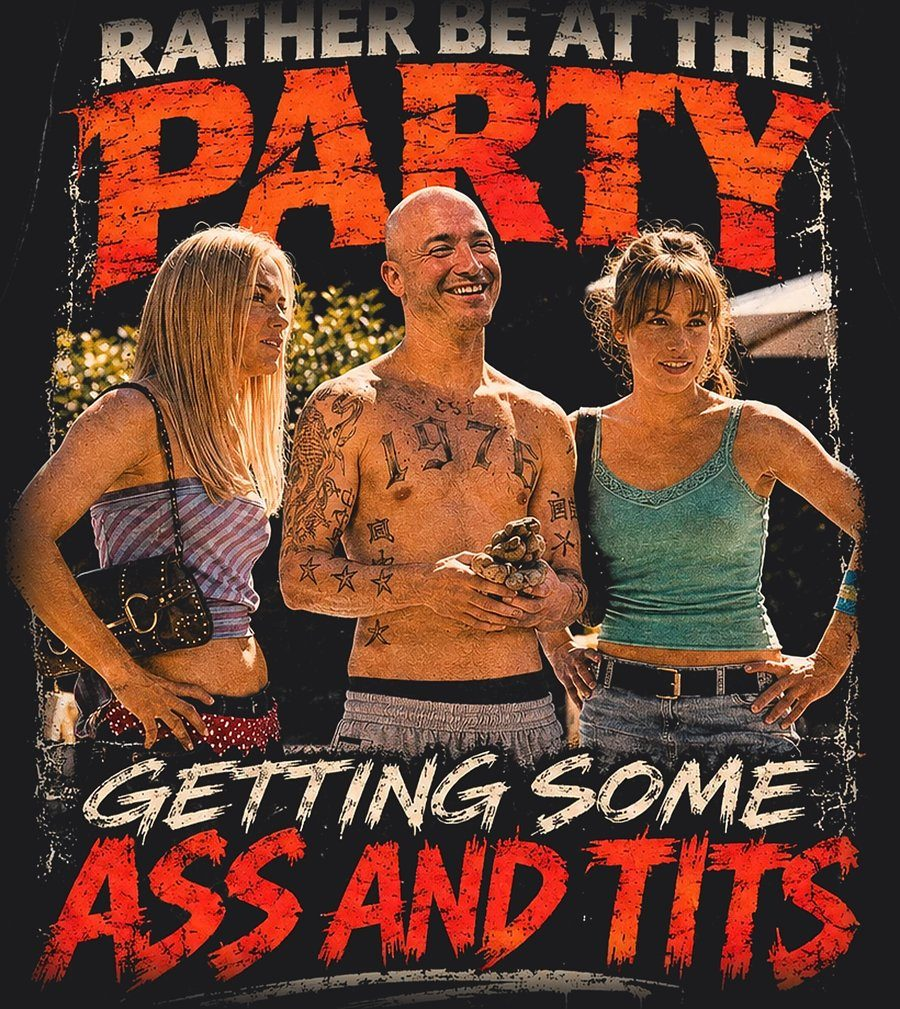
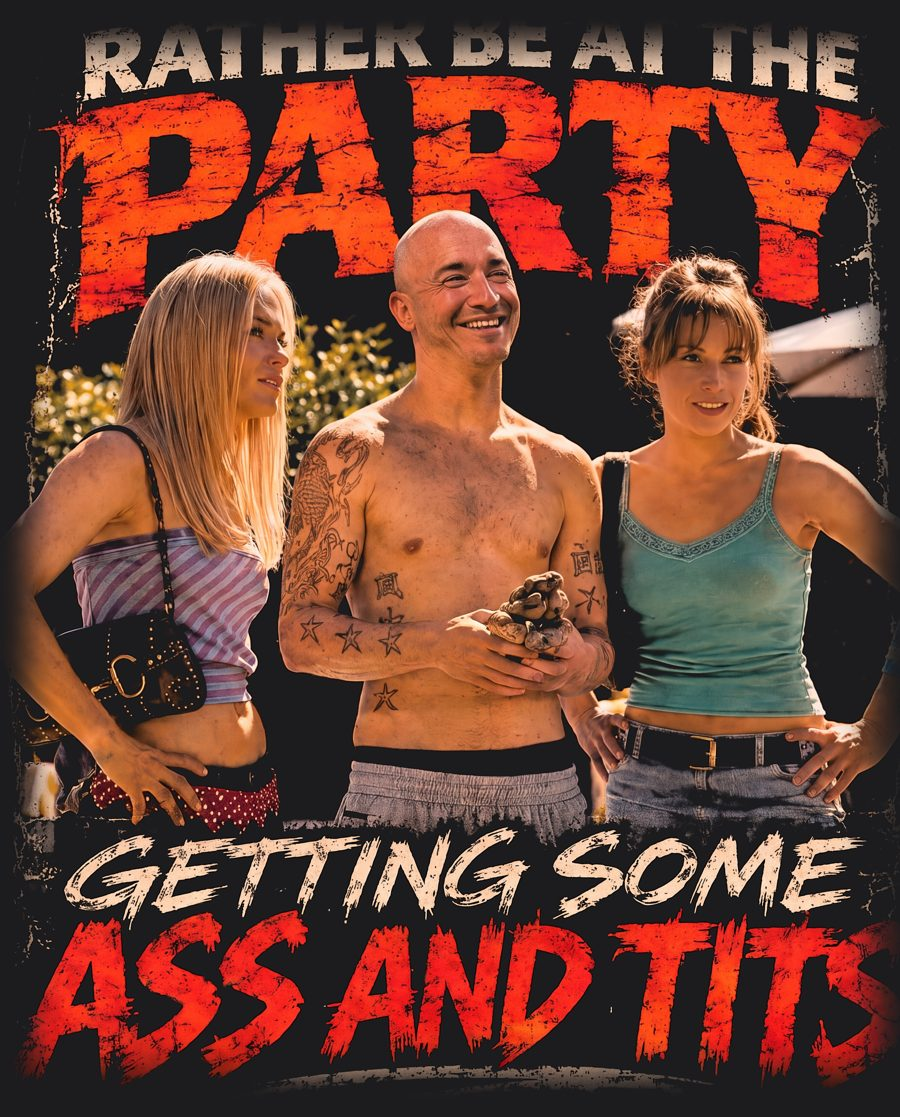
Party tee art without 1976 tattoo: site tile, BFCM collage

diff --git a/fanclub/index.html b/fanclub/index.html
@@ -7,7 +7,7 @@
 <meta name="description" content="Black Friday: 96% off all Dump Patrol merch with code DUMPER96.">
 <meta property="og:title" content="Dumper.life Fan Club · Black Friday · 96% off all merch">
 <meta property="og:description" content="Code DUMPER96 at checkout. Dump Patrol — The Mixtape out now.">
-<meta property="og:image" content="https://dumper.life/BFCM/card.jpg">
+<meta property="og:image" content="https://dumper.life/BFCM/card2.jpg">
 <meta property="og:image:width" content="1080"><meta property="og:image:height" content="1350">
 <meta property="og:url" content="https://dumper.life/fanclub/">
 <meta name="twitter:card" content="summary_large_image">
@@ -25,7 +25,7 @@ p{color:var(--mute);font-size:13px;margin-top:12px}
 </head>
 <body>
 <main>
-  <img src="/BFCM/card.jpg" alt="Dumper.life Fan Club — Black Friday sale, 96% off all merch, code DUMPER96">
+  <img src="/BFCM/card2.jpg" alt="Dumper.life Fan Club — Black Friday sale, 96% off all merch, code DUMPER96">
   <div class="row">
     <button class="solid" id="copy">Copy code DUMPER96</button>
     <a id="shop" href="/BFCM/">Shop the merch</a>

diff --git a/BFCM/index.html b/BFCM/index.html
@@ -7,7 +7,7 @@
 <meta name="description" content="Black Friday: 96% off all Dump Patrol merch with code DUMPER96.">
 <meta property="og:title" content="DUMP PATROL · BLACK FRIDAY · 96% OFF ALL MERCH">
 <meta property="og:description" content="Code DUMPER96 at checkout. Every Dump Patrol tee, 96% off.">
-<meta property="og:image" content="https://dumper.life/BFCM/card.jpg">
+<meta property="og:image" content="https://dumper.life/BFCM/card2.jpg">
 <meta property="og:image:width" content="1080"><meta property="og:image:height" content="1350">
 <meta property="og:url" content="https://dumper.life/BFCM/">
 <meta name="twitter:card" content="summary_large_image">
